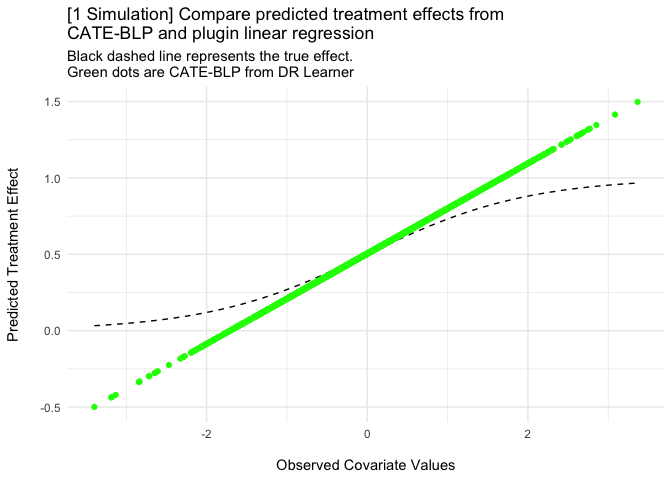
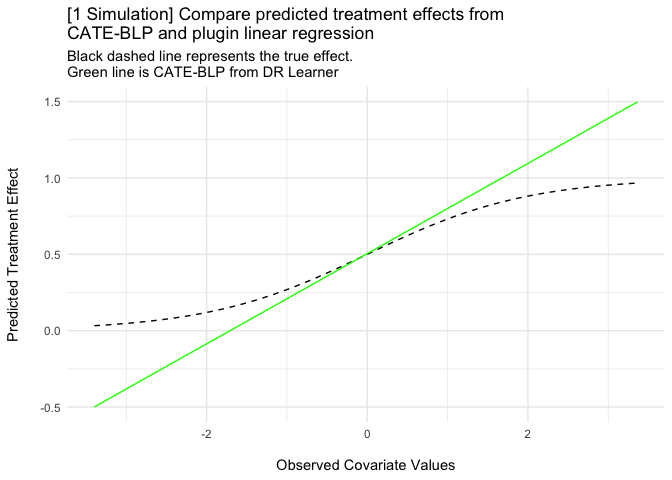
coercion steps and readme updates

diff --git a/README.md b/README.md
@@ -20,11 +20,18 @@ estimate construction.
 
 ## Installation
 
-You can install the development version of blpopt from
+You can install the development version of drlearner from
 [GitHub](https://github.com/) with:
 
 ``` r
 # install.packages("remotes")
+remotes::install_github("christophergandrud/drlearner")
+```
+
+Because drlearner is intended to work with blpopt for best linear
+projection estimation, also install:
+
+``` r
 remotes::install_github("christophergandrud/blpopt")
 ```
 
@@ -152,11 +159,13 @@ blp_drl <- cate_blp(drl, X[, 3])
 blp_drl_pred <- tibble(blp_drl = predict(blp_drl)$predicted, A = X[, 3])
 
 ggplot(blp_drl_pred, aes(A, blp_drl)) +
-    geom_function(fun = tau_ex, col = "black", linetype = "dashed") +
-    geom_point(color = "green") +
-    ylab("Predicted Treatment Effect\n") + xlab("\nObserved Covariate Values") +
-    ggtitle("[1 Simulation] Compare predicted treatment effects from\nCATE-BLP and plugin linear regression ",
-    subtitle = "Black dashed line represents the true effect.\nGreen dots are CATE-BLP from DR Learner")
+  geom_function(fun = tau_ex, col = "black", linetype = "dashed") +
+  geom_line(color = "green") +
+  ylab("Predicted Treatment Effect\n") +
+  xlab("\nObserved Covariate Values") +
+  ggtitle("[1 Simulation] Compare predicted treatment effects from\nCATE-BLP and plugin linear regression ",
+    subtitle = "Black dashed line represents the true effect.\nGreen line is CATE-BLP from DR Learner"
+  )
 ```
 
 <img src="man/figures/README-unnamed-chunk-2-1.png" width="100%" />
